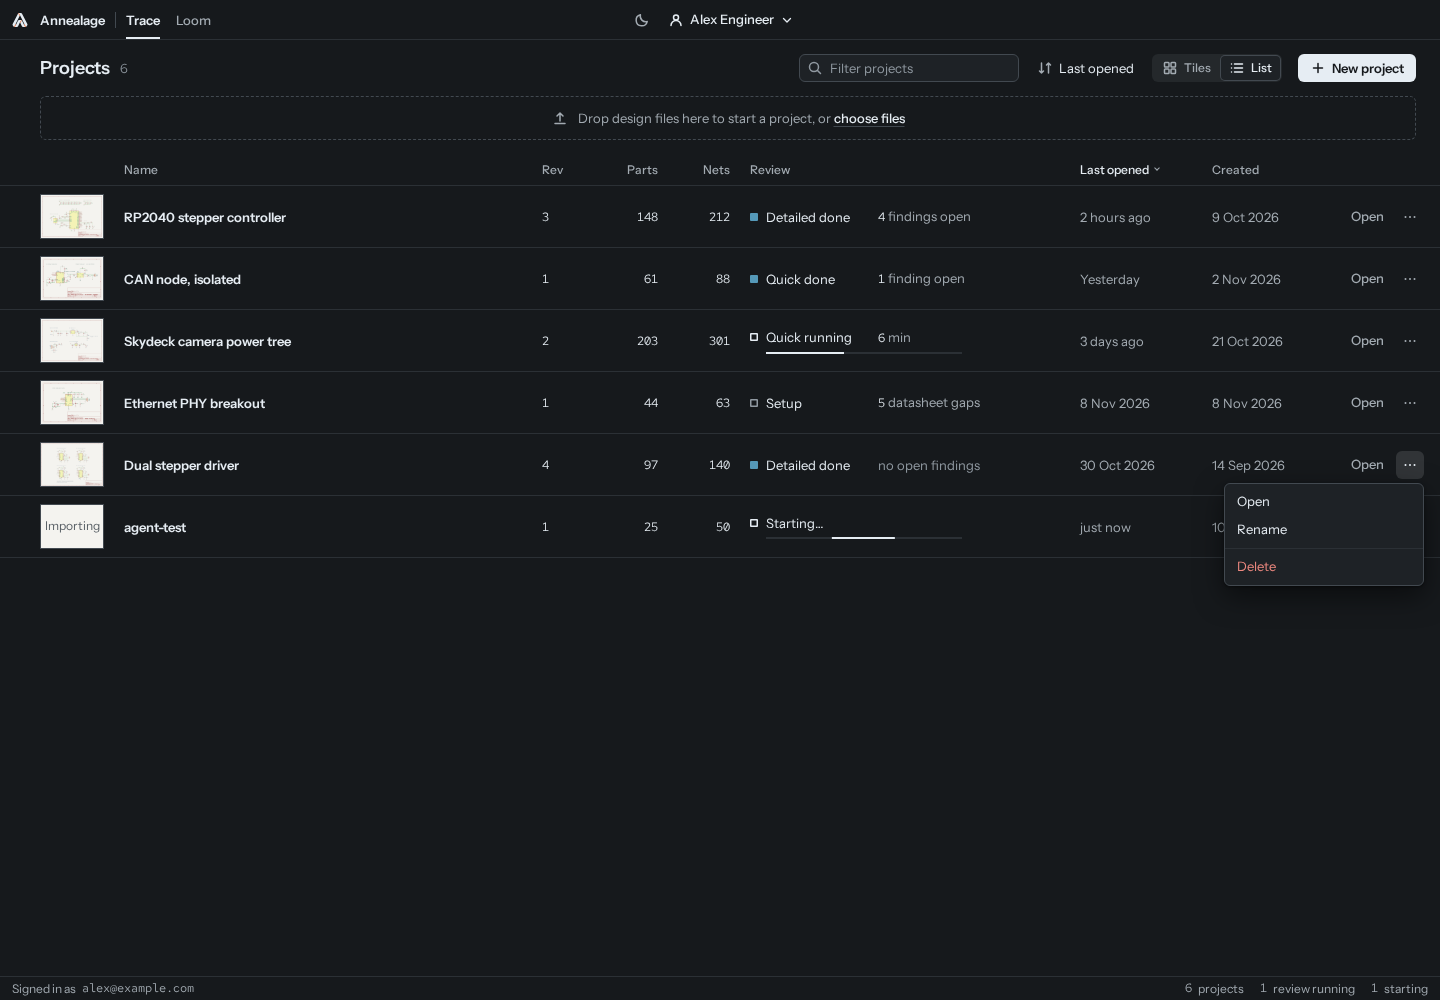
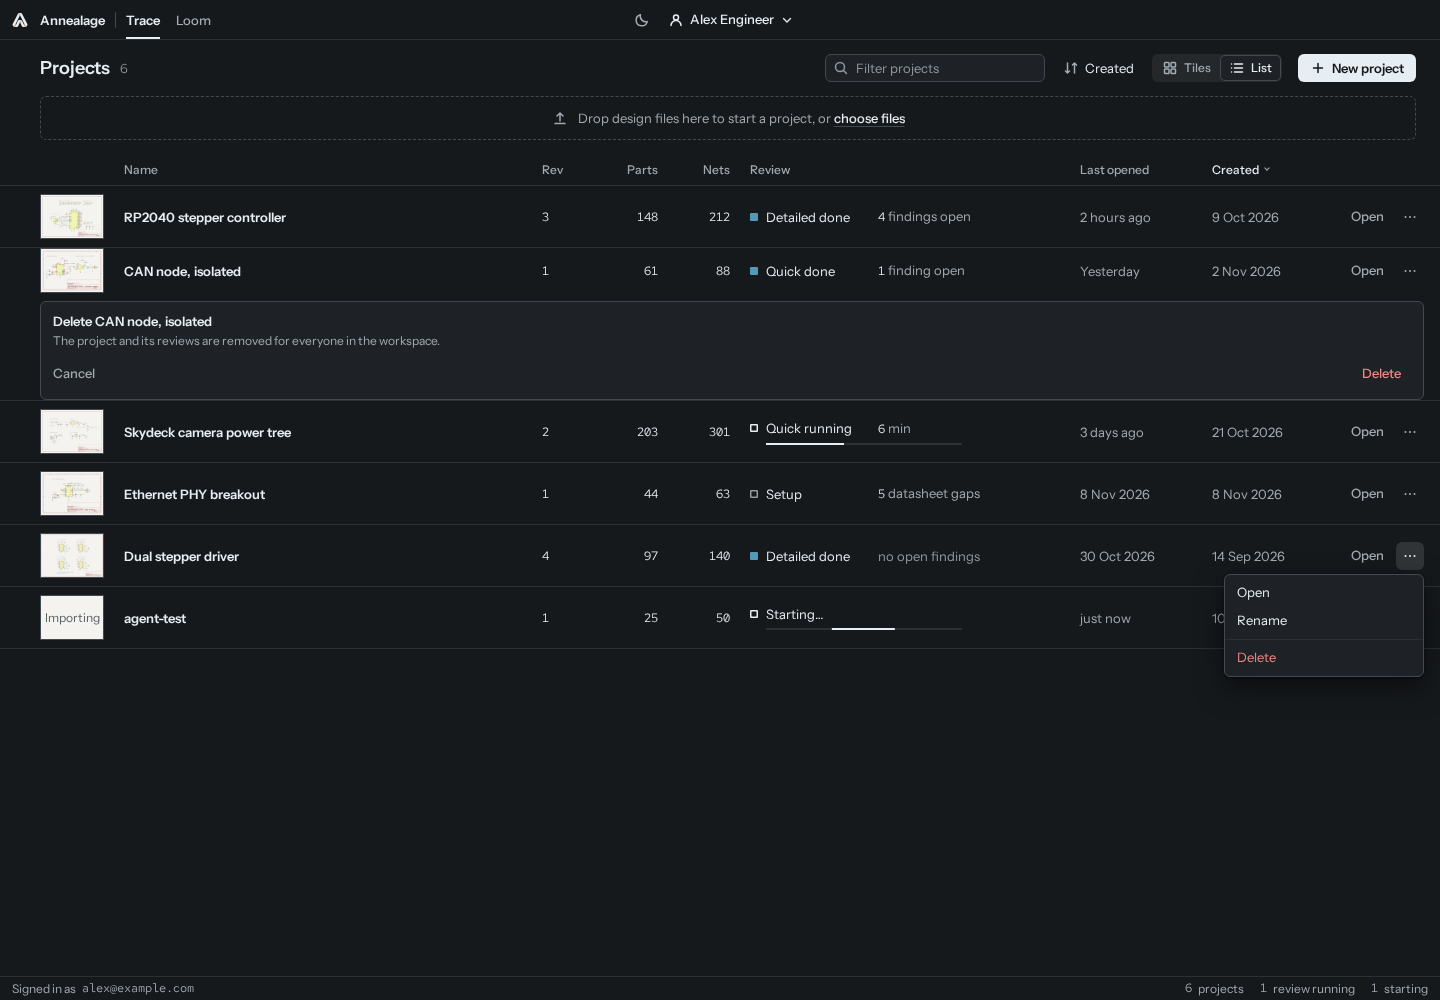
dialog.modal, confirm row in a register row, Created sort in list demo

diff --git a/theme.css b/theme.css
@@ -352,11 +352,11 @@ details.more > summary::-webkit-details-marker { display: none; }
 summary { cursor: pointer; }
 .disc > summary { display: flex; align-items: center; gap: 8px; height: 32px; list-style: none; font-weight: 500; }
 .disc > summary::-webkit-details-marker { display: none; }
-.disc > summary::before, #chat .toolcard > summary::before, #chat .toolgroup > summary::before, #chat .thinking > summary::before, #chat .turnerror > summary::before, .chatbannerdetail > summary::before {
+.disc > summary::before, :is(#chat, .modal) .toolcard > summary::before, #chat .toolgroup > summary::before, #chat .thinking > summary::before, #chat .turnerror > summary::before, .chatbannerdetail > summary::before {
   content: ""; width: 5px; height: 5px; margin: 0 4px 0 3px; flex: none;
   border: solid var(--ink-3); border-width: 0 1.5px 1.5px 0; transform: rotate(-45deg);
 }
-.disc[open] > summary::before, #chat .toolcard[open] > summary::before, #chat .toolgroup[open] > summary::before, #chat .thinking[open] > summary::before, #chat .turnerror[open] > summary::before, .chatbannerdetail[open] > summary::before { transform: rotate(45deg) translate(-1px, -1px); }
+.disc[open] > summary::before, :is(#chat, .modal) .toolcard[open] > summary::before, #chat .toolgroup[open] > summary::before, #chat .thinking[open] > summary::before, #chat .turnerror[open] > summary::before, .chatbannerdetail[open] > summary::before { transform: rotate(45deg) translate(-1px, -1px); }
 .disc-body { padding: 0 0 12px 20px; color: var(--ink-2); max-width: 720px; }
 .disc-body p + p { margin-top: 6px; }
 .discs { border-top: 1px solid var(--rule); }
@@ -1163,33 +1163,33 @@ table.props td { padding: 3px 0; font: 400 var(--fs-small)/var(--lh-ui) var(--mo
 #chat .chathistory:hover:not(:disabled) { background: var(--hover); color: var(--ink); }
 
 /* Thinking, tool runs and tool calls: single quiet lines with a chevron. */
-#chat .thinking, #chat .toolgroup, #chat .toolcard { border: 0; border-radius: 0; background: none; }
-#chat .thinking > summary, #chat .toolgroup > summary, #chat .toolcard > summary, #chat .turnerror > summary {
+#chat .thinking, #chat .toolgroup, :is(#chat, .modal) .toolcard { border: 0; border-radius: 0; background: none; }
+#chat .thinking > summary, #chat .toolgroup > summary, :is(#chat, .modal) .toolcard > summary, #chat .turnerror > summary {
   display: flex; align-items: center; gap: 5px; height: 24px; padding: 0; list-style: none; cursor: pointer;
   font: 400 var(--fs-small)/1 var(--sans); font-style: normal; color: var(--ink-2); white-space: nowrap;
 }
-#chat .thinking > summary::-webkit-details-marker, #chat .toolgroup > summary::-webkit-details-marker, #chat .toolcard > summary::-webkit-details-marker, #chat .turnerror > summary::-webkit-details-marker { display: none; }
-#chat .thinking > summary:hover, #chat .toolgroup > summary:hover, #chat .toolcard > summary:hover, #chat .toolcard[open] > summary { color: var(--ink); }
+#chat .thinking > summary::-webkit-details-marker, #chat .toolgroup > summary::-webkit-details-marker, :is(#chat, .modal) .toolcard > summary::-webkit-details-marker, #chat .turnerror > summary::-webkit-details-marker { display: none; }
+#chat .thinking > summary:hover, #chat .toolgroup > summary:hover, :is(#chat, .modal) .toolcard > summary:hover, :is(#chat, .modal) .toolcard[open] > summary { color: var(--ink); }
 #chat .thinking > summary { color: var(--ink-3); }
 #chat .thinkingtext { max-height: min(24rem, 45vh); overflow-y: auto; overscroll-behavior: contain; padding: 0 0 4px 17px; font-size: var(--fs-small); line-height: var(--lh-ui); color: var(--ink-2); white-space: pre-wrap; word-break: break-word; }
 #chat .thinkingnote { padding: 0 0 4px 17px; font-size: var(--fs-small); color: var(--ink-3); }
 #chat .toolgroup { margin-inline: -16px; }
 #chat .toolgroup > summary { padding: 0 16px; }
 #chat .tools { display: block; max-height: min(24rem, 45vh); overflow-y: auto; overscroll-behavior: contain; padding: 0; gap: 0; }
-#chat .toolcard > summary { padding: 0 16px 0 33px; font-family: var(--mono); font-weight: 400; }
-#chat .toolcard > summary::before, #chat .toolgroup > summary::before, #chat .thinking > summary::before, #chat .turnerror > summary::before { content: ""; color: inherit; }
+:is(#chat, .modal) .toolcard > summary { padding: 0 16px 0 33px; font-family: var(--mono); font-weight: 400; }
+:is(#chat, .modal) .toolcard > summary::before, #chat .toolgroup > summary::before, #chat .thinking > summary::before, #chat .turnerror > summary::before { content: ""; color: inherit; }
 /* A call's input and result: a field-tone block between two hairlines. */
-#chat pre.toolinput, #chat pre.toolresult {
+:is(#chat, .modal) pre.toolinput, :is(#chat, .modal) pre.toolresult {
   display: grid; grid-template-columns: 48px minmax(0, 1fr);
   margin: 0; padding: 2px 16px 2px 49px; border: 0; overflow-x: visible;
   background: var(--field); color: var(--ink);
   font: 400 var(--fs-small)/var(--lh-ui) var(--mono); white-space: pre-wrap; overflow-wrap: anywhere; word-break: normal;
 }
-#chat pre.toolinput::before, #chat pre.toolresult::before, #chat .permcard .ptool::before { color: var(--ink-3); font: 400 var(--fs-small)/var(--lh-ui) var(--sans); }
-#chat pre.toolinput::before { content: "Input"; }
-#chat pre.toolresult::before { content: "Result"; }
-#chat .toolcard > pre.toolinput { margin-top: 2px; padding-top: 6px; border-top: 1px solid var(--rule); }
-#chat .toolcard > pre.toolresult, #chat .toolcard > pre.toolinput:has(+ pre.toolresult[hidden]), #chat .toolcard > pre.toolinput:last-child { margin-bottom: 4px; padding-bottom: 6px; border-bottom: 1px solid var(--rule); }
+:is(#chat, .modal) pre.toolinput::before, :is(#chat, .modal) pre.toolresult::before, #chat .permcard .ptool::before { color: var(--ink-3); font: 400 var(--fs-small)/var(--lh-ui) var(--sans); }
+:is(#chat, .modal) pre.toolinput::before { content: "Input"; }
+:is(#chat, .modal) pre.toolresult::before { content: "Result"; }
+:is(#chat, .modal) .toolcard > pre.toolinput { margin-top: 2px; padding-top: 6px; border-top: 1px solid var(--rule); }
+:is(#chat, .modal) .toolcard > pre.toolresult, :is(#chat, .modal) .toolcard > pre.toolinput:has(+ pre.toolresult[hidden]), :is(#chat, .modal) .toolcard > pre.toolinput:last-child { margin-bottom: 4px; padding-bottom: 6px; border-bottom: 1px solid var(--rule); }
 #chat pre.toolresult.error { color: var(--danger); }
 /* What went wrong in a turn, with the backend's own text behind a disclosure. */
 #chat .turnerror { margin: 6px 0 0; padding: 0; border: 0; color: var(--ink); font-size: var(--fs-ui); }
@@ -1445,10 +1445,14 @@ table.props td { padding: 3px 0; font: 400 var(--fs-small)/var(--lh-ui) var(--mo
 .covhead { padding: 4px 12px 2px; font-size: var(--fs-small); color: var(--ink-2); }
 
 /* ------------------------------------------------ settings (settings.js) */
-/* settings.js builds this inside the page's #settingsModal.modal:
+/* The overlay is a div.modal or a <dialog class="modal"> (open it with showModal() or show(); the dialog's own backdrop is not drawn, .modal paints the scrim). Single-line .toolcard rows read the same inside it as in #chat.
+   settings.js builds this inside the page's #settingsModal.modal:
    .setpanel > header (h2, button.setclose) [.setwarn] .setbody > section (h3, [h4], .setrow > label.setlabel + .setinput + .setnote + .sethelp)
    Diagnostics: .diagblock > .diagrow > .diagkey + .diagval.  Agent log: .loglist > .logrow > .loghead (.logname .logpath button.logbtn) [.logopts pre.logtail]
    footer > .setstatus + button.primary.  A dialog, so it has an edge and the menu shadow. */
+dialog.modal:not([open]) { display: none; }
+dialog.modal { width: 100%; height: 100%; max-width: none; max-height: none; margin: 0; border: 0; color: inherit; overflow: visible; }
+dialog.modal::backdrop { background: none; }
 .modal { position: fixed; inset: 0; z-index: 40; display: flex; align-items: center; justify-content: center; padding: 16px; background: light-dark(rgba(20, 23, 26, 0.35), rgba(0, 0, 0, 0.55)); }
 .setpanel {
   display: flex; flex-direction: column; width: min(600px, 100%); max-height: min(86vh, 100%);

diff --git a/demo/list.html b/demo/list.html
@@ -36,7 +36,7 @@
     <h1>Projects</h1><span class="n">6</span>
     <span class="grow"></span>
     <label class="inputwrap filter"><svg class="ico" aria-hidden="true"><use href="../icons.svg#i-search"/></svg><input class="input" type="search" placeholder="Filter projects" aria-label="Filter projects"></label>
-    <button class="btn sortbtn" type="button" title="Sort"><svg class="ico"><use href="../icons.svg#i-sort"/></svg><span>Last opened</span></button>
+    <button class="btn sortbtn" type="button" title="Sort"><svg class="ico"><use href="../icons.svg#i-sort"/></svg><span>Created</span></button>
     <div class="seg" role="group" aria-label="View">
       <a href="#tiles" data-route-link aria-pressed="false"><svg class="ico"><use href="../icons.svg#i-grid"/></svg><span class="wide">Tiles</span></a>
       <a href="#list" data-route-link aria-pressed="true"><svg class="ico"><use href="../icons.svg#i-list"/></svg><span class="wide">List</span></a>
@@ -50,7 +50,7 @@
     <input type="file" multiple></label>
 
   <div class="reg" data-view="list">
-    <div class="reg-head" aria-hidden="true"><span></span><span>Name</span><span>Rev</span><span class="num">Parts</span><span class="num">Nets</span><span>Review</span><span class="sorted">Last opened</span><span>Created</span><span></span></div>
+    <div class="reg-head" aria-hidden="true"><span></span><span>Name</span><span>Rev</span><span class="num">Parts</span><span class="num">Nets</span><span>Review</span><span>Last opened</span><span class="sorted">Created</span><span></span></div>
     <ol class="projs">
       <li class="proj">
         <a class="p-thumb paper" href="flow.html#review" tabindex="-1"><img src="assets/sheet-mcu.png" alt=""></a>
@@ -67,6 +67,7 @@
         <span class="p-state"><span class="lamp ok"></span><span class="st">Quick done</span><span class="sd"><span class="mono">1</span> finding open</span></span>
         <span class="p-opened"><span class="k">Opened </span>Yesterday</span><span class="p-created">2 Nov 2026</span>
         <span class="p-act"><a class="btn quiet" href="flow.html#review">Open</a><button class="btn icon" type="button" aria-label="More for CAN node, isolated"><svg class="ico"><use href="../icons.svg#i-more"/></svg></button></span>
+        <div class="confirm" data-kind="danger" role="group" aria-labelledby="reg-c1" aria-live="polite"><p class="ch" id="reg-c1">Delete CAN node, isolated</p><p class="cd">The project and its reviews are removed for everyone in the workspace.</p><div class="cacts"><button class="btn quiet" type="button">Cancel</button><button class="btn danger" type="button">Delete</button></div></div>
       </li>
       <li class="proj">
         <a class="p-thumb paper" href="flow.html#review" tabindex="-1"><img src="assets/sheet-power.png" alt=""></a>

diff --git a/demo/components.html b/demo/components.html
@@ -394,6 +394,15 @@ resolution: CANH and CANL net labels are at J7 pins 1 and 2.</pre><div class="pa
 </section>
 
 <section class="spec-sec">
+  <h2>Modal</h2>
+  <p class="lede"><code>&lt;dialog class="modal"&gt;</code> works like the <code>div.modal</code> overlay: closed it is not drawn, open it covers the page with the scrim and the dialog's own backdrop is not painted. Shown here in place; single-line tool rows read as in the chat.</p>
+  <div class="spec-grid">
+    <h3>Dialog <code>dialog.modal</code><code>.toolcard</code></h3>
+    <div class="spec-pane wide spec-modal"><dialog class="modal" open aria-label="Tool calls"><div class="setpanel"><header><h2>Tool calls</h2><button class="setclose" type="button" aria-label="Close">&times;</button></header><div class="setbody"><details class="toolcard"><summary>loom: read_circuit</summary><pre class="toolinput">sheet: CAN</pre><pre class="toolresult">ok</pre></details><details class="toolcard" open><summary>loom: run_erc</summary><pre class="toolinput">sheets: CAN</pre><pre class="toolresult error">failed: lib_symbol_issues</pre></details></div></div></dialog></div>
+  </div>
+</section>
+
+<section class="spec-sec">
   <h2>Settings window</h2>
   <p class="lede">What settings.js builds inside the page's <code>#settingsModal.modal</code>, shown here in place.</p>
   <div class="spec-grid">

diff --git a/pages.css b/pages.css
@@ -199,6 +199,7 @@ a.p-name:hover { text-decoration: underline; text-decoration-color: var(--rule-s
 .reg-head .sorted { display: inline-flex; align-items: center; gap: 6px; color: var(--ink); }
 .reg-head .sorted::after { content: ""; width: 4px; height: 4px; margin-top: -3px; border: solid var(--ink-2); border-width: 0 1.5px 1.5px 0; transform: rotate(45deg); }
 .reg[data-view=list] .proj { min-height: 62px; }
+.reg .proj > .confirm { grid-column: 1 / -1; }
 .reg[data-view=list] .proj:hover { background: var(--hover); }
 .reg[data-view=list] .proj .k { display: none; }
 .reg[data-view=list] :is(.p-parts, .p-nets) { text-align: right; }

diff --git a/demo/demo.css b/demo/demo.css
@@ -42,6 +42,7 @@
 .spec-pane { width: 300px; border: 1px solid var(--rule); }
 .spec-pane.wide { width: 400px; }
 .spec-pane.full { width: 100%; max-width: 1100px; }
+.spec-modal .modal { position: static; z-index: auto; height: auto; padding: 0; background: none; }
 .spec-pane .inspector, .spec-pane #chat, .spec-pane .console { border: 0; height: auto; }
 .spec-pane #chatLog { overflow: visible; }
 .spec-pane .side { max-height: none; }
